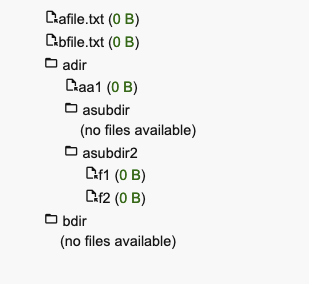
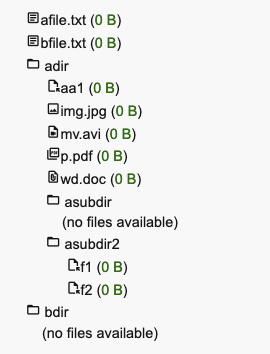
update README.md

Changed region(s): [[0.0889, 0.0282, 0.6815, 0.9577]]

diff --git a/README.md b/README.md
@@ -8,6 +8,8 @@ as a package: start `filesystemhtml.WatchFS()` and then query `filesystemhtml.FS
 
 `FSResponse[1]` is js to display that html
 
+nb: assuming you have access to `jQuery` and `Material Icons`
+
 ```
 % tree
 .
